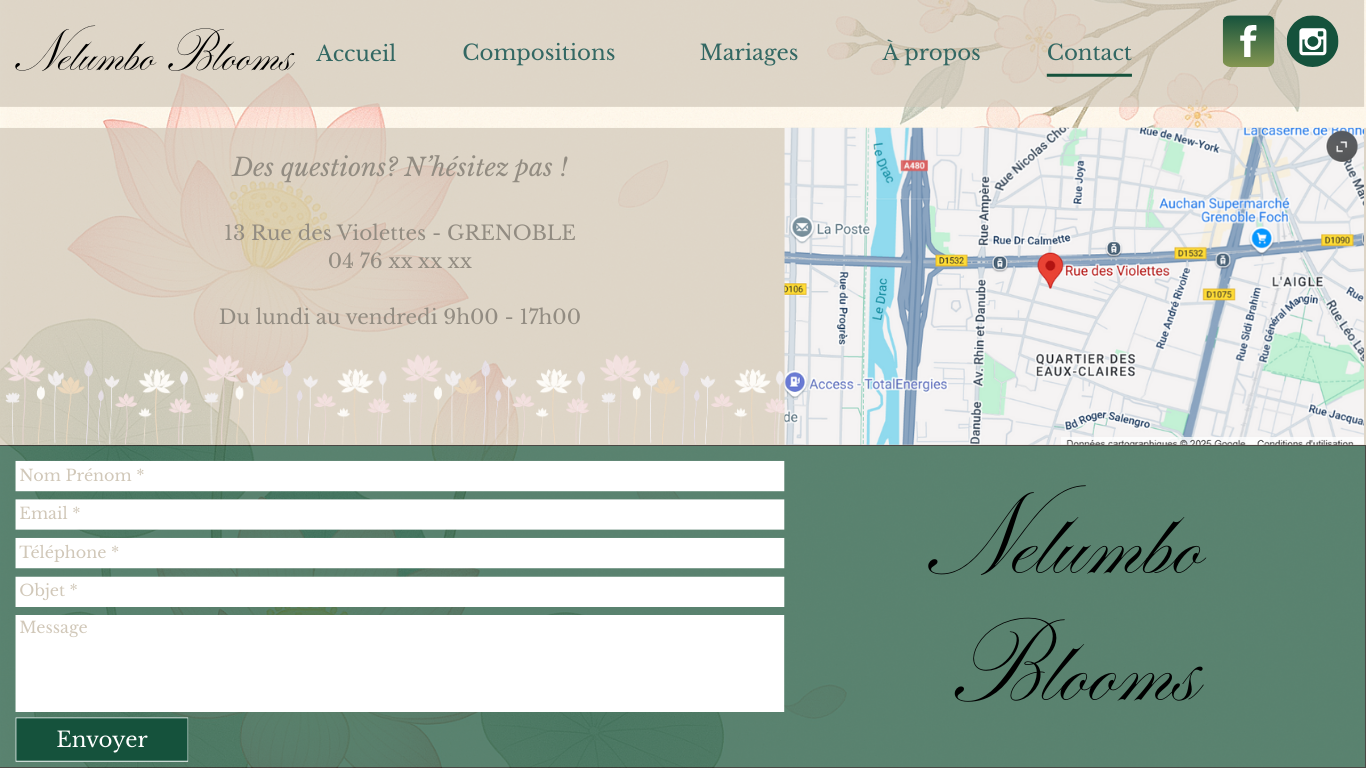
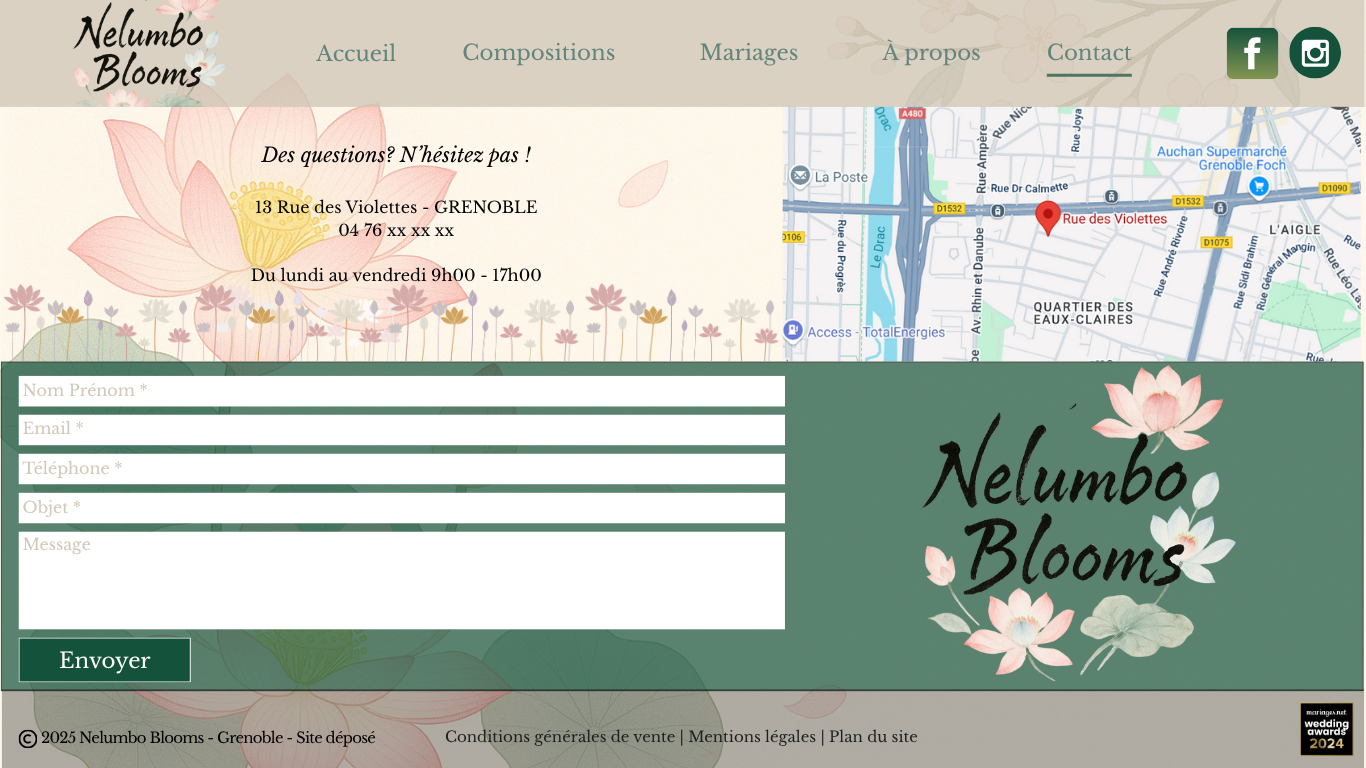
update readme+commit

diff --git a/style.css b/style.css
@@ -369,84 +369,86 @@ address {
 }
 
 .contact-info {
-  display: flex;
-  justify-content: space-between;
-  padding: 40px 20px;
+    display: flex;
+    justify-content: space-between;
+    
 }
 
 .info-text {
-  max-width: 50%;
-  padding: 20px;
-  font-size: 1.2rem;
+    max-width: 50%;
+    padding: 0px;
+    font-size: 1.2rem;
 }
 
 .map iframe {
-  width: 500px;
-  height: 250px;
-  border: none;
-  display: flex;
-  padding: 0px;
-  margin-left: 42.4%;
+    width: 500px;
+    height: 250px;
+    border: none;
+    display: flex;
+    padding: 0px;
+    margin-left: 34.4%;
+    margin-bottom: 10%;
 }
 
 .form-section {
-  width: 100%;
-  height: 50vh;
-  display: flex;
-  background-color: #336863;
-  padding: 10px;
-  gap: 30px;
-  align-items: center;
-  justify-content: center;
-  flex-wrap: wrap;
+    width: 100%;
+    height: 50vh;
+    display: flex;
+    background-color: #336863;
+    padding: 10px;
+    gap: 30px;
+    align-items: center;
+    justify-content: center;
+    flex-wrap: wrap;
 }
 
 .contact-form {
-  flex: 1;
-  min-width: 300px;
-  display: flex;
-  flex-direction: column;
-  gap: 10px;
+    flex: 1;
+    min-width: 300px;
+    display: flex;
+    flex-direction: column;
+    gap: 10px;
 }
 
 .contact-form input,
 .contact-form textarea {
-  padding: 10px;
-  font-size: 1rem;
-  border: none;
-  border-radius: 2px;
+    padding: 10px;
+    font-size: 1rem;
+    border: none;
+    border-radius: 2px;
 }
 
 .contact-form button {
-  background-color: #154c3f;
-  color: white;
-  padding: 12px;
-  font-size: 1.1rem;
-  border: none;
-  cursor: pointer;
+    width: 30%;
+    background-color: #154c3f;
+    color: white;
+    padding: 12px;
+    font-size: 1.1rem;
+    border: none;
+    cursor: pointer;
 }
 
 img
 /*.form-image {
-  flex: 1;
-  max-width: 400px;
-  text-align: center;
+    flex: 1;
+    max-width: 400px;
+    text-align: center;
 }
 
 /form-image img {
-  max-width: 100%;
-  height: auto;
+    max-width: 100%;
+    height: auto;
 }*/
 
 footer {
-  background-color: #d8d1c4;
-  text-align: center;
-  padding: 15px;
-  font-size: 0.9rem;
+    background-color: #d8d1c4;
+    text-align: center;
+    padding: 15px;
+    font-size: 0.9rem;
 }
 
 footer a {
-  color: inherit;
-  text-decoration: none;
-  margin: 0 5px;
+    color: inherit;
+    text-decoration: none;
+    margin: 0 5px;
 }

diff --git a/contact.html b/contact.html
@@ -24,7 +24,7 @@
         </div>
     </header>
     <main>
-      <div class="contact-page">
+      <main class="contact-page">
         <section class="contact-info">
         <div class="info-text">
         <p><strong>Des questions ? N’hésitez pas !</strong></p>
@@ -52,7 +52,7 @@
     <p>© 2025 Nelumbo Blooms - Grenoble - Site déposé</p>
     <p><a href="#">Conditions générales de vente</a> | <a href="#">Mentions légales</a> | <a href="#">Plan du site</a></p>
   </footer>
-      </div>
+      </main class>
     </main>
 </body>
 </html>
